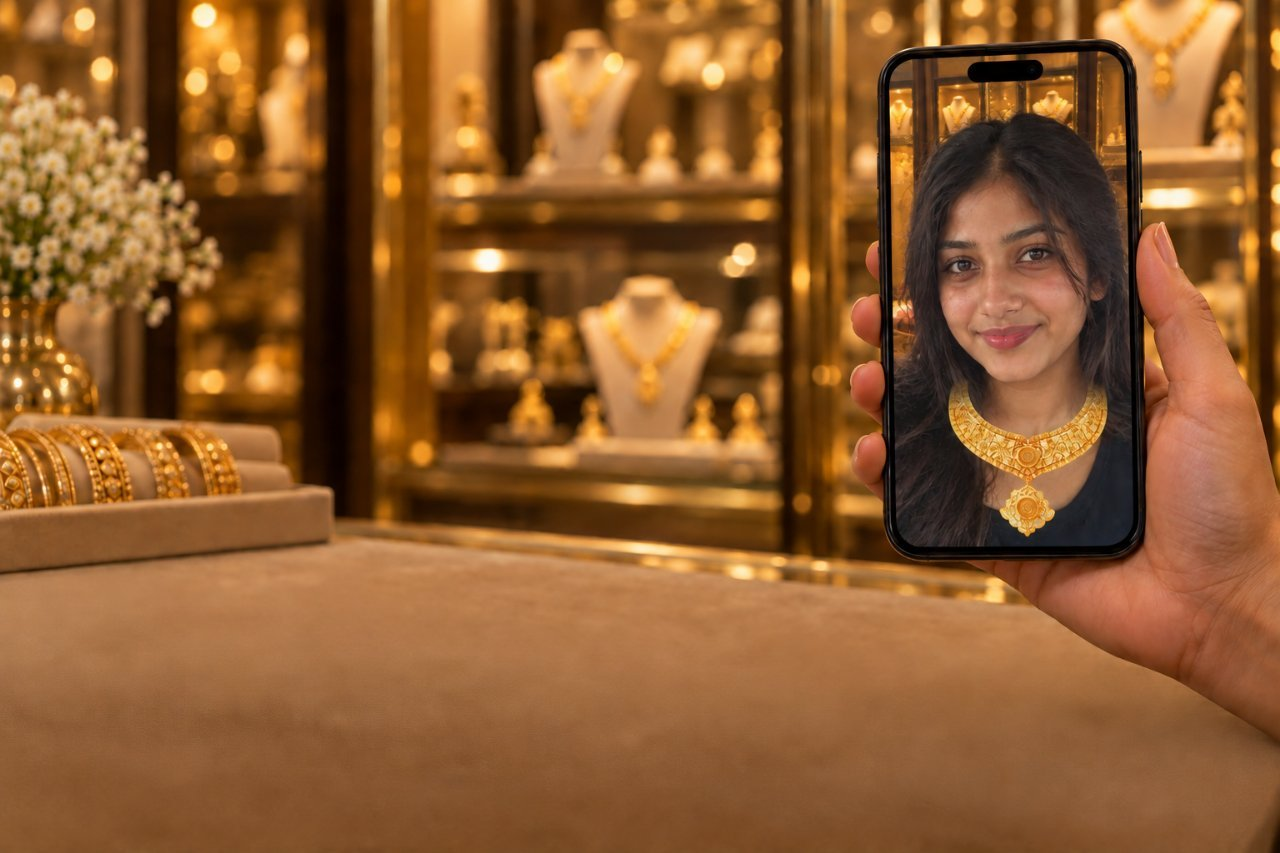
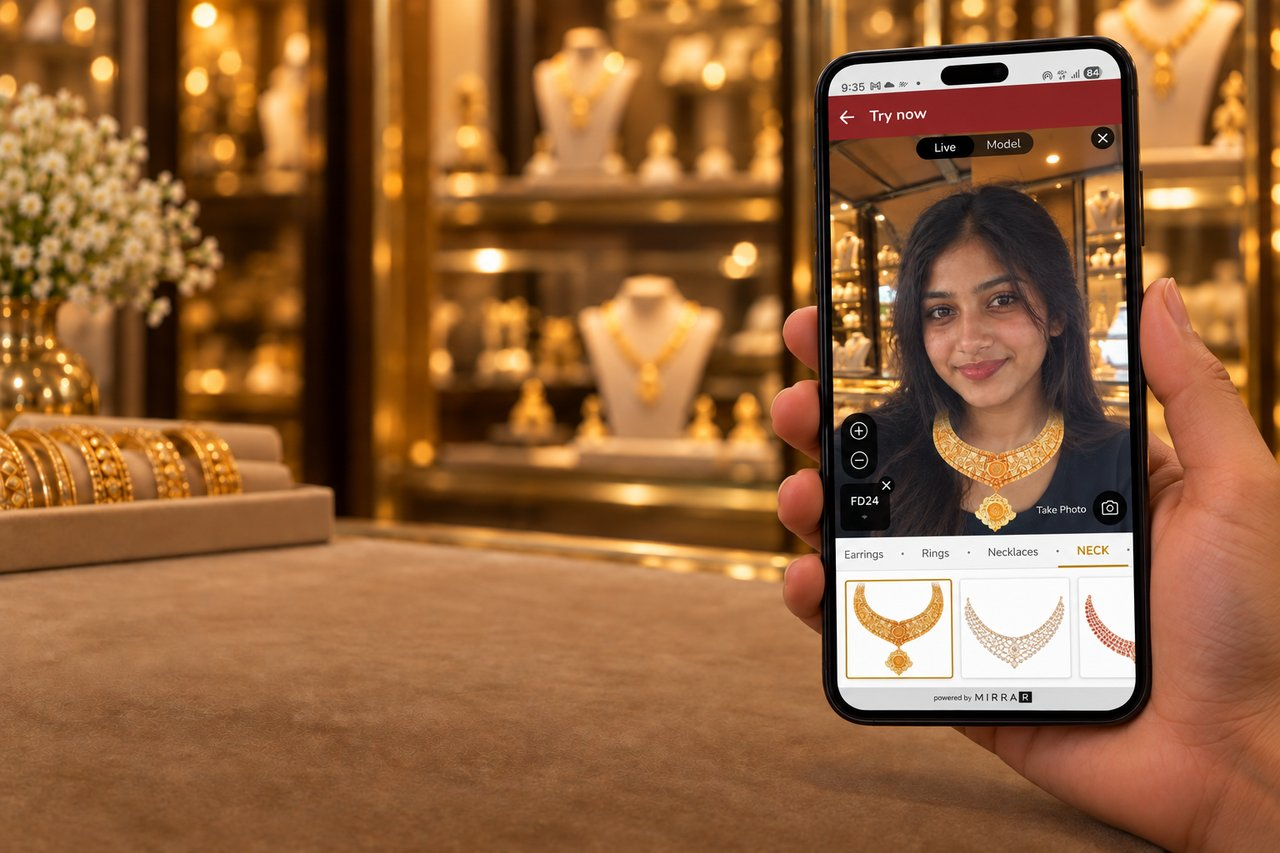
Update LIVE TRY-ON feature card photo
Swaps public/images/12.jpg for a new photo showing the LIVE TRY-ON app
screen in more detail (necklace on the model, plus the row of other
necklace thumbnails below). Resized and encoded as progressive JPEG
(1280x853, matching the other cards' dimensions and the site's existing
encoding convention), and updated the alt text to describe it.

diff --git a/src/components/FeaturesSection.tsx b/src/components/FeaturesSection.tsx
@@ -3,7 +3,7 @@ import { useScrollReveal } from '../hooks/useScrollReveal';
 import { Icon } from './Icon';
 
 const features = [
-  ['12.jpg', 'Hand holding a phone showing LIVE TRY-ON of a gold necklace on a woman, with a jewellery shop in the background', 'camera', 'LIVE TRY-ON', 'Let customers see how a design looks on them through their phone camera.'],
+  ['12.jpg', 'Hand holding a phone showing the LIVE TRY-ON screen with a gold necklace on a woman, and a row of other necklace options below, jewellery shop in the background', 'camera', 'LIVE TRY-ON', 'Let customers see how a design looks on them through their phone camera.'],
   ['13.jpg', 'Phone photographing a gold necklace with a crop frame on screen', 'upload', 'Upload your designs', 'Bring your own jewellery photos into the app. Ready for try-on after approval.'],
   ['14.jpg', 'Phone showing a WhatsApp chat with a jewellery link and shop name', 'share', 'Share with your shop name', 'Send a jewellery link on WhatsApp. Customers try it from home.'],
   ['15.jpg', 'Phone showing a grid of saved gold jewellery designs with hearts', 'heart', 'Save favourite designs', 'Keep selected designs together, ready to show when a customer asks.'],
